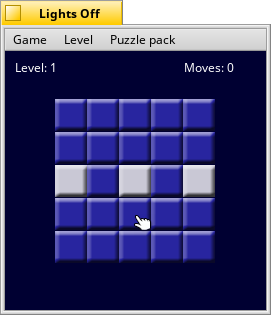
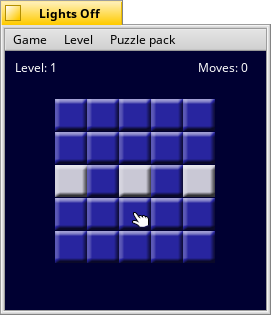
LightsOff: make grid generation dynamic based on grid dimensions
Also:
* use only two digits for Moves to make it more centered
* correct a typo in README.md
* update screenshots for README.md
* add 3x3, 4x4, and 6x6 screenshots

Changed region(s): [[0.679, 0.2, 0.9151, 0.2286], [0.4723, 0.6571, 0.5609, 0.7429]]

diff --git a/src/GridView.cpp b/src/GridView.cpp
@@ -27,7 +27,9 @@ enum
 PuzzlePackSet gPuzzles;
 
 GridView::GridView(void)
- : BView(BRect(0,0,260,280), "gridview", B_FOLLOW_NONE, B_WILL_DRAW)
+	:
+	BView(BRect(0, 0, 260, 280), "gridview", B_FOLLOW_ALL, B_WILL_DRAW),
+	fDimension(5)
 {
 	entry_ref ref;
 	
@@ -89,14 +91,15 @@ GridView::GridView(void)
 	fPackMenu->SetRadioMode(true);
 	bar->AddItem(fPackMenu);
 	
-	fButtons = (TwoStateDrawButton**) malloc(sizeof(TwoStateDrawButton)*25);
+	fButtons = (TwoStateDrawButton**)
+		malloc(sizeof(TwoStateDrawButton) * fDimension * fDimension);
 	float inset = 50;
 	r.Set(inset,inset + bar->Frame().bottom,inset+32,inset + bar->Frame().bottom + 32);
 	
 	int8 count=0;
-	for(int32 j=0; j<5; j++)
+	for (int32 j = 0; j < fDimension; j++)
 	{
-		for(int32 i=0; i<5;i++)
+		for (int32 i = 0; i < fDimension; i++)
 		{
 			BBitmap *off_up = BTranslationUtils::GetBitmap(B_PNG_FORMAT,1);
 			BBitmap *off_down = BTranslationUtils::GetBitmap(B_PNG_FORMAT,2);
@@ -114,7 +117,7 @@ GridView::GridView(void)
 		}
 		r.OffsetTo(inset,r.bottom+1);
 	}
-	
+
 	r.left = 10;
 	r.top = bar->Frame().bottom + 10;
 	r.right = 11;
@@ -123,8 +126,9 @@ GridView::GridView(void)
 	fLevelLabel->ResizeToPreferred();
 	AddChild(fLevelLabel);
 	fLevelLabel->SetHighColor(255,255,255);
-	
-	fMovesLabel = new BStringView(BRect(0,0,1,1),"moveslabel","Moves: 1000");
+
+	fMovesLabel = new BStringView(BRect(0, 0, 1, 1), "moveslabel", "Moves: 10",
+		B_FOLLOW_RIGHT);
 	fMovesLabel->ResizeToPreferred();
 	fMovesLabel->MoveTo(Bounds().right - 10 - fMovesLabel->Frame().Width(),
 			bar->Frame().bottom + 10);
@@ -147,7 +151,10 @@ GridView::~GridView(void)
 
 void GridView::AttachedToWindow(void)
 {
-	for(int32 i=0; i<25; i++)
+	const float delta = fButtons[0]->Bounds().Width() * (fDimension - 5);
+	Window()->ResizeBy(delta, delta);
+
+	for (int32 i = 0; i < fDimension * fDimension; i++)
 		fButtons[i]->SetTarget(this);
 	
 	fMenu->SetTargetForItems(this);
@@ -159,7 +166,7 @@ void GridView::AttachedToWindow(void)
 void GridView::MessageReceived(BMessage *msg)
 {
 	const int32 index = msg->what - 1000;
-	const int32 n = 5;	// n by n grid
+	const int32 n = fDimension;	// n by n grid
 
 	if (index >= 0 && index < n * n) {
 		if (index % n)	// not leftmost column
@@ -306,7 +313,7 @@ void GridView::SetLevel(uint8 level)
 	fLevelLabel->ResizeToPreferred();
 	
 	fGrid.SetGridValues(fPuzzle->ValueAt(level));
-	for(uint8 i=0; i<25; i++)
+	for (uint8 i = 0; i < fDimension * fDimension; i++)
 	{
 		if(fGrid.ValueAt(i))
 			fButtons[i]->SetState(1);

diff --git a/src/GridView.h b/src/GridView.h
@@ -37,6 +37,7 @@ private:
 	Grid fGrid;
 	PuzzlePack *fPuzzle;
 	
+	uint8 fDimension;
 	uint32 fLevel;
 	bool fUseSound;
 	uint32 fMoveCount;

diff --git a/README.md b/README.md
@@ -16,7 +16,7 @@ When you press a button, you turn it off or on, just like a light switch. Additi
 
 ### Winning
 
-You must solve a puzzle within 10 moves of the minimum required. This means that you must solve the every puzzle in the _Six Move Puzzles_ pack within 16 moves. For the Classic pack, the requirements are listed below:
+You must solve a puzzle within 10 moves of the minimum required. This means that you must solve every puzzle in the _Six Move Puzzles_ pack within 16 moves. For the Classic pack, the requirements are listed below:
 
 Level | Moves Required | Level | Moves Required
 :---: | :---: | :---: | :---:
